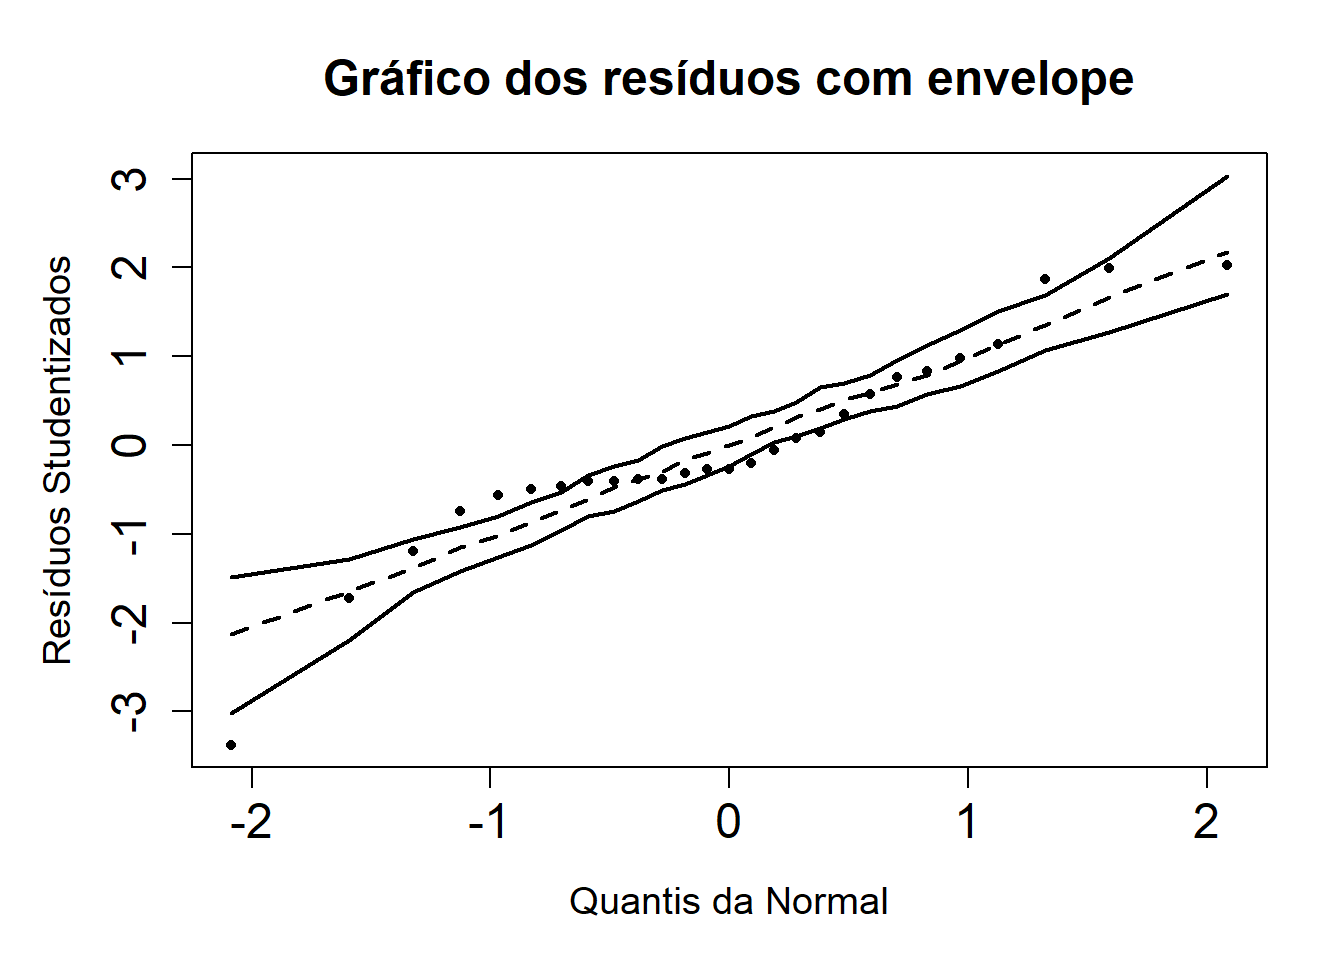
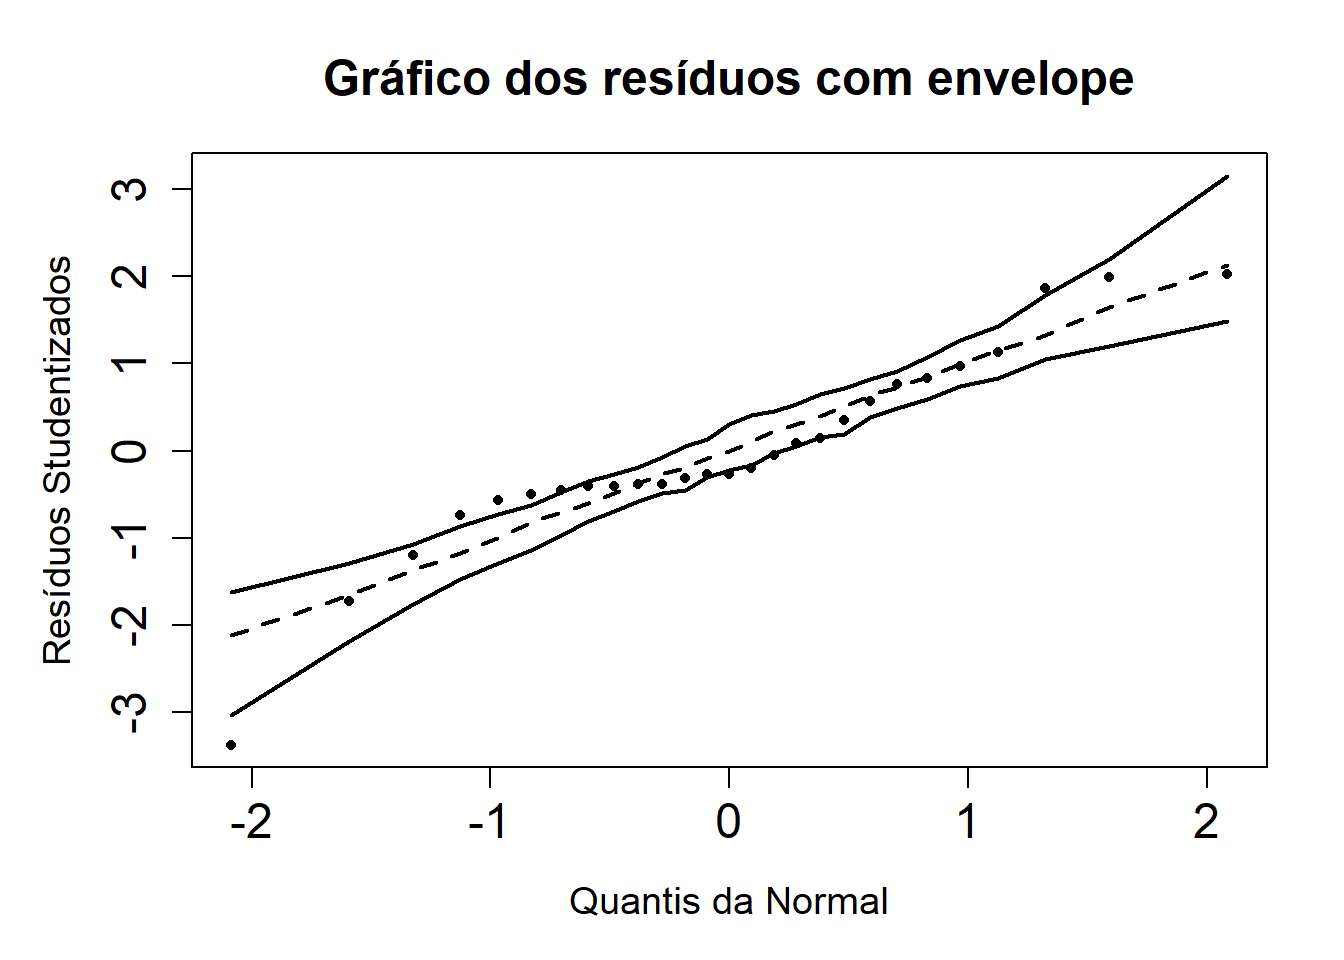
até 2f

diff --git a/docs/questao2.html b/docs/questao2.html
@@ -190,6 +190,9 @@ pre > code.sourceCode > span > a:first-child::before { text-decoration: underlin
   <li><a href="#análise-de-resíduos-studentizados" id="toc-análise-de-resíduos-studentizados" class="nav-link" data-scroll-target="#análise-de-resíduos-studentizados">Análise de resíduos Studentizados</a></li>
   <li><a href="#avaliação-de-normalidade-da-resposta" id="toc-avaliação-de-normalidade-da-resposta" class="nav-link" data-scroll-target="#avaliação-de-normalidade-da-resposta">Avaliação de normalidade da resposta</a></li>
   <li><a href="#modelos-sob-mínimos-quadrados-ponderados" id="toc-modelos-sob-mínimos-quadrados-ponderados" class="nav-link" data-scroll-target="#modelos-sob-mínimos-quadrados-ponderados">Modelos sob Mínimos Quadrados Ponderados</a></li>
+  <li><a href="#interpretação-dos-coeficientes-estimados" id="toc-interpretação-dos-coeficientes-estimados" class="nav-link" data-scroll-target="#interpretação-dos-coeficientes-estimados">Interpretação dos coeficientes estimados</a></li>
+  <li><a href="#intervalo-confiança" id="toc-intervalo-confiança" class="nav-link" data-scroll-target="#intervalo-confiança">Intervalo confiança</a></li>
+  <li><a href="#análise-de-variância" id="toc-análise-de-variância" class="nav-link" data-scroll-target="#análise-de-variância">Análise de variância</a></li>
   </ul></li>
   </ul>
 </nav>
@@ -478,18 +481,18 @@ X = \begin{bmatrix}
 1 &amp; x_n
 \end{bmatrix} \quad \Rightarrow \quad Q = \begin{bmatrix}
 \frac{1}{\sqrt{x_1^p}} &amp; \frac{x_1}{\sqrt{x_1^p}}\\
-\frac{1}{\sqrt{x_2^p}} &amp; \frac{x_2}{\sqrt{x_1^p}} \\
+\frac{1}{\sqrt{x_2^p}} &amp; \frac{x_2}{\sqrt{x_2^p}} \\
 \vdots &amp; \vdots \\
-\frac{1}{\sqrt{x_2^p}} &amp; \frac{x_n}{\sqrt{x_1^p}}
+\frac{1}{\sqrt{x_3^p}} &amp; \frac{x_n}{\sqrt{x_3^p}}
 \end{bmatrix}
 </span></p>
-<p>que não possui um termo constante, portanto não possui intercepto. Os novos modelos são ajustados utilizando a mesma função <code>lm()</code>, porém ajustando o argumento <code>weights =</code> <span class="math inline">1/(ntrabalhadores)^p</span>. A tabela com os estimadores e suas características para os modelos sem intercepto são expostas a seguir.</p>
+<p>que não possui um termo constante, portanto não possui intercepto. Os novos modelos são ajustados utilizando a mesma função <code>lm()</code>, porém ajustando o argumento <code>weights</code> = <span class="math inline">1/(ntrabalhadores)^p</span>. A tabela com os estimadores e suas características para os modelos sem intercepto são expostas a seguir.</p>
 <div class="cell">
 <details>
 <summary>Code</summary>
-<div class="sourceCode cell-code" id="cb10"><pre class="sourceCode r code-with-copy"><code class="sourceCode r"><span id="cb10-1"><a href="#cb10-1" aria-hidden="true" tabindex="-1"></a>fit_w1 <span class="ot">&lt;-</span> <span class="fu">lm</span>(ntrabalhadores <span class="sc">~</span> nsupervisores, <span class="at">weights =</span> <span class="dv">1</span><span class="sc">/</span>(ntrabalhadores)<span class="sc">^</span><span class="dv">1</span>, <span class="at">data =</span> supervisores)</span>
-<span id="cb10-2"><a href="#cb10-2" aria-hidden="true" tabindex="-1"></a>fit_w2 <span class="ot">&lt;-</span> <span class="fu">lm</span>(ntrabalhadores <span class="sc">~</span> nsupervisores, <span class="at">weights =</span> <span class="dv">1</span><span class="sc">/</span>(ntrabalhadores)<span class="sc">^</span><span class="dv">2</span>, <span class="at">data =</span> supervisores)</span>
-<span id="cb10-3"><a href="#cb10-3" aria-hidden="true" tabindex="-1"></a>fit_w3 <span class="ot">&lt;-</span> <span class="fu">lm</span>(ntrabalhadores <span class="sc">~</span> nsupervisores, <span class="at">weights =</span> <span class="dv">1</span><span class="sc">/</span>(ntrabalhadores)<span class="sc">^</span><span class="dv">3</span>, <span class="at">data =</span> supervisores)</span>
+<div class="sourceCode cell-code" id="cb10"><pre class="sourceCode r code-with-copy"><code class="sourceCode r"><span id="cb10-1"><a href="#cb10-1" aria-hidden="true" tabindex="-1"></a>fit_w1 <span class="ot">&lt;-</span> <span class="fu">lm</span>(nsupervisores <span class="sc">~</span> ntrabalhadores, <span class="at">weights =</span> <span class="dv">1</span><span class="sc">/</span>(ntrabalhadores)<span class="sc">^</span><span class="dv">1</span>, <span class="at">data =</span> supervisores)</span>
+<span id="cb10-2"><a href="#cb10-2" aria-hidden="true" tabindex="-1"></a>fit_w2 <span class="ot">&lt;-</span> <span class="fu">lm</span>(nsupervisores <span class="sc">~</span> ntrabalhadores, <span class="at">weights =</span> <span class="dv">1</span><span class="sc">/</span>(ntrabalhadores)<span class="sc">^</span><span class="dv">2</span>, <span class="at">data =</span> supervisores)</span>
+<span id="cb10-3"><a href="#cb10-3" aria-hidden="true" tabindex="-1"></a>fit_w3 <span class="ot">&lt;-</span> <span class="fu">lm</span>(nsupervisores <span class="sc">~</span> ntrabalhadores, <span class="at">weights =</span> <span class="dv">1</span><span class="sc">/</span>(ntrabalhadores)<span class="sc">^</span><span class="dv">3</span>, <span class="at">data =</span> supervisores)</span>
 <span id="cb10-4"><a href="#cb10-4" aria-hidden="true" tabindex="-1"></a></span>
 <span id="cb10-5"><a href="#cb10-5" aria-hidden="true" tabindex="-1"></a></span>
 <span id="cb10-6"><a href="#cb10-6" aria-hidden="true" tabindex="-1"></a><span class="fu">bind_rows</span>(<span class="fu">tidy</span>(fit_w1), <span class="fu">tidy</span>(fit_w2), <span class="fu">tidy</span>(fit_w3)) <span class="sc">%&gt;%</span></span>
@@ -530,17 +533,17 @@ X = \begin{bmatrix}
 <tr class="odd">
 <td style="text-align: center;">1</td>
 <td style="text-align: center;">(Intercept)</td>
-<td style="text-align: center;">30.8322</td>
-<td style="text-align: center;">52.9944</td>
-<td style="text-align: center;">0.5818</td>
-<td style="text-align: center;">0.5659</td>
+<td style="text-align: center;">7.7739</td>
+<td style="text-align: center;">6.4302</td>
+<td style="text-align: center;">1.2090</td>
+<td style="text-align: center;">0.2380</td>
 <td style="text-align: center;">0.8475</td>
 </tr>
 <tr class="even">
 <td style="text-align: center;">1</td>
-<td style="text-align: center;">nsupervisores</td>
-<td style="text-align: center;">7.4242</td>
-<td style="text-align: center;">0.6299</td>
+<td style="text-align: center;">ntrabalhadores</td>
+<td style="text-align: center;">0.1142</td>
+<td style="text-align: center;">0.0097</td>
 <td style="text-align: center;">11.7865</td>
 <td style="text-align: center;">0.0000</td>
 <td style="text-align: center;">NA</td>
@@ -548,17 +551,17 @@ X = \begin{bmatrix}
 <tr class="odd">
 <td style="text-align: center;">2</td>
 <td style="text-align: center;">(Intercept)</td>
-<td style="text-align: center;">26.3475</td>
-<td style="text-align: center;">35.4991</td>
-<td style="text-align: center;">0.7422</td>
-<td style="text-align: center;">0.4649</td>
+<td style="text-align: center;">3.8033</td>
+<td style="text-align: center;">4.5697</td>
+<td style="text-align: center;">0.8323</td>
+<td style="text-align: center;">0.4131</td>
 <td style="text-align: center;">0.8785</td>
 </tr>
 <tr class="even">
 <td style="text-align: center;">2</td>
-<td style="text-align: center;">nsupervisores</td>
-<td style="text-align: center;">7.2610</td>
-<td style="text-align: center;">0.5400</td>
+<td style="text-align: center;">ntrabalhadores</td>
+<td style="text-align: center;">0.1210</td>
+<td style="text-align: center;">0.0090</td>
 <td style="text-align: center;">13.4454</td>
 <td style="text-align: center;">0.0000</td>
 <td style="text-align: center;">NA</td>
@@ -566,17 +569,17 @@ X = \begin{bmatrix}
 <tr class="odd">
 <td style="text-align: center;">3</td>
 <td style="text-align: center;">(Intercept)</td>
-<td style="text-align: center;">32.8318</td>
-<td style="text-align: center;">27.1905</td>
-<td style="text-align: center;">1.2075</td>
-<td style="text-align: center;">0.2385</td>
+<td style="text-align: center;">1.5628</td>
+<td style="text-align: center;">3.7468</td>
+<td style="text-align: center;">0.4171</td>
+<td style="text-align: center;">0.6802</td>
 <td style="text-align: center;">0.8792</td>
 </tr>
 <tr class="even">
 <td style="text-align: center;">3</td>
-<td style="text-align: center;">nsupervisores</td>
-<td style="text-align: center;">6.9761</td>
-<td style="text-align: center;">0.5171</td>
+<td style="text-align: center;">ntrabalhadores</td>
+<td style="text-align: center;">0.1260</td>
+<td style="text-align: center;">0.0093</td>
 <td style="text-align: center;">13.4912</td>
 <td style="text-align: center;">0.0000</td>
 <td style="text-align: center;">NA</td>
@@ -587,7 +590,7 @@ X = \begin{bmatrix}
 
 </div>
 </div>
-<p>De fato, observa-se que o modelo transformado explica em torno de 20% a mais de variância do que o modelo não transformado, para qualquer valor de <span class="math inline">p</span> dentre os disponíveis.</p>
+<p>De fato, observa-se que o modelo transformado explica em torno de 7% a mais de variância do que o modelo não transformado, para qualquer valor de <span class="math inline">p</span> dentre os disponíveis.</p>
 <p>Os gráficos de resposta ajustada versus resíduos Studentizados e gráficos normais de probabilidade dos resíduos Studentizados com envelope simulado são expostos a seguir. De fato, utilizando <span class="math inline">p = 3</span> parece resultar em melhor comportamento dos resíduos, mas não é possível concluir nada sobre <span class="math inline">p=2</span>.</p>
 <div class="cell">
 <details>
@@ -625,7 +628,7 @@ X = \begin{bmatrix}
 <p><img src="questao2_files/figure-html/unnamed-chunk-11-1.png" class="img-fluid" width="672"></p>
 </div>
 </div>
-<p>Quanto à avaliação da normalidade, utilizando os gráficos de envelope simulado a seguir, <span class="math inline">p=3</span> parece resultar na pior opção, enquanto <span class="math inline">p=2</span> parece resultar na melhor opção.</p>
+<p>Quanto à avaliação da normalidade, utilizando os gráficos de envelope simulado a seguir, <span class="math inline">p=3</span> parece resultar na melhor opção.</p>
 <div class="cell">
 <details>
 <summary>Code</summary>
@@ -638,7 +641,47 @@ X = \begin{bmatrix}
 <p><img src="questao2_files/figure-html/unnamed-chunk-12-1.png" class="img-fluid" width="672"></p>
 </div>
 </div>
-<p>Considerando as possiblidades apontadas, opta-se pelo modelo em que <span class="math inline">p=2</span>.</p>
+<p>Considerando as possiblidades apontadas, opta-se pelo modelo em que <span class="math inline">p=3</span>.</p>
+</section>
+<section id="interpretação-dos-coeficientes-estimados" class="level3">
+<h3 class="anchored" data-anchor-id="interpretação-dos-coeficientes-estimados">Interpretação dos coeficientes estimados</h3>
+<p>Tendo-se optado por <span class="math inline">p=3</span>, obtemos <span class="math inline">\beta_1 =</span> 0.13. Isto significa que o acréscimo de cada trabalhador implicaria no acrescimo de 0.13 supervisor ou, para uma compreensão mais clara, haveria o acréscimo de um supervisor a cada 7.93 trabalhadores.</p>
+</section>
+<section id="intervalo-confiança" class="level3">
+<h3 class="anchored" data-anchor-id="intervalo-confiança">Intervalo confiança</h3>
+<p>Construimos um intervalo de confiança para <span class="math inline">\hat{\beta_G}</span> sob a condição.</p>
+<p><span class="math display">
+\hat{\beta_G} \sim N(\beta, \sigma^2(X^{\top}V^{-1}X)^{-1})
+</span> E obtemos o seguinte intervalo de confiança:</p>
+<div class="cell">
+<details>
+<summary>Code</summary>
+<div class="sourceCode cell-code" id="cb13"><pre class="sourceCode r code-with-copy"><code class="sourceCode r"><span id="cb13-1"><a href="#cb13-1" aria-hidden="true" tabindex="-1"></a><span class="co"># X &lt;- matrix(c(rep(1, 27),supervisores$ntrabalhadores), ncol = 2)</span></span>
+<span id="cb13-2"><a href="#cb13-2" aria-hidden="true" tabindex="-1"></a><span class="co"># V_1 &lt;- solve(diag(supervisores$ntrabalhadores^3))</span></span>
+<span id="cb13-3"><a href="#cb13-3" aria-hidden="true" tabindex="-1"></a><span class="co"># </span></span>
+<span id="cb13-4"><a href="#cb13-4" aria-hidden="true" tabindex="-1"></a><span class="co"># P_1 &lt;- diag(1/sqrt(supervisores$ntrabalhadores^3))</span></span>
+<span id="cb13-5"><a href="#cb13-5" aria-hidden="true" tabindex="-1"></a><span class="co"># </span></span>
+<span id="cb13-6"><a href="#cb13-6" aria-hidden="true" tabindex="-1"></a><span class="co"># Q &lt;- P_1 %*% X</span></span>
+<span id="cb13-7"><a href="#cb13-7" aria-hidden="true" tabindex="-1"></a><span class="co"># </span></span>
+<span id="cb13-8"><a href="#cb13-8" aria-hidden="true" tabindex="-1"></a><span class="co"># Y &lt;- supervisores$nsupervisores</span></span>
+<span id="cb13-9"><a href="#cb13-9" aria-hidden="true" tabindex="-1"></a><span class="co"># </span></span>
+<span id="cb13-10"><a href="#cb13-10" aria-hidden="true" tabindex="-1"></a><span class="co"># betaG &lt;- solve(t(X)%*%V_1%*%X) %*% t(X) %*% V_1 %*% supervisores$nsupervisores</span></span>
+<span id="cb13-11"><a href="#cb13-11" aria-hidden="true" tabindex="-1"></a><span class="co"># </span></span>
+<span id="cb13-12"><a href="#cb13-12" aria-hidden="true" tabindex="-1"></a><span class="co"># xtxInv &lt;- solve(t(X) %*% V_1 %*% X)</span></span>
+<span id="cb13-13"><a href="#cb13-13" aria-hidden="true" tabindex="-1"></a><span class="co"># </span></span>
+<span id="cb13-14"><a href="#cb13-14" aria-hidden="true" tabindex="-1"></a><span class="co"># Zhat &lt;- fitted(fit_w3)</span></span>
+<span id="cb13-15"><a href="#cb13-15" aria-hidden="true" tabindex="-1"></a><span class="co"># Z &lt;- P_1 %*% Y</span></span>
+<span id="cb13-16"><a href="#cb13-16" aria-hidden="true" tabindex="-1"></a><span class="co"># </span></span>
+<span id="cb13-17"><a href="#cb13-17" aria-hidden="true" tabindex="-1"></a><span class="co"># sqres &lt;- sum((Z[,1]-Zhat)^2) #????</span></span>
+<span id="cb13-18"><a href="#cb13-18" aria-hidden="true" tabindex="-1"></a><span class="co"># </span></span>
+<span id="cb13-19"><a href="#cb13-19" aria-hidden="true" tabindex="-1"></a><span class="co"># (confint(fit_w2, level = .9) %&gt;% as_tibble())[2,]</span></span>
+<span id="cb13-20"><a href="#cb13-20" aria-hidden="true" tabindex="-1"></a><span class="co"># </span></span>
+<span id="cb13-21"><a href="#cb13-21" aria-hidden="true" tabindex="-1"></a><span class="co"># t(Y)%*%V_1%*%Y</span></span></code><button title="Copy to Clipboard" class="code-copy-button"><i class="bi"></i></button></pre></div>
+</details>
+</div>
+</section>
+<section id="análise-de-variância" class="level3">
+<h3 class="anchored" data-anchor-id="análise-de-variância">Análise de variância</h3>
 
 
 </section>
